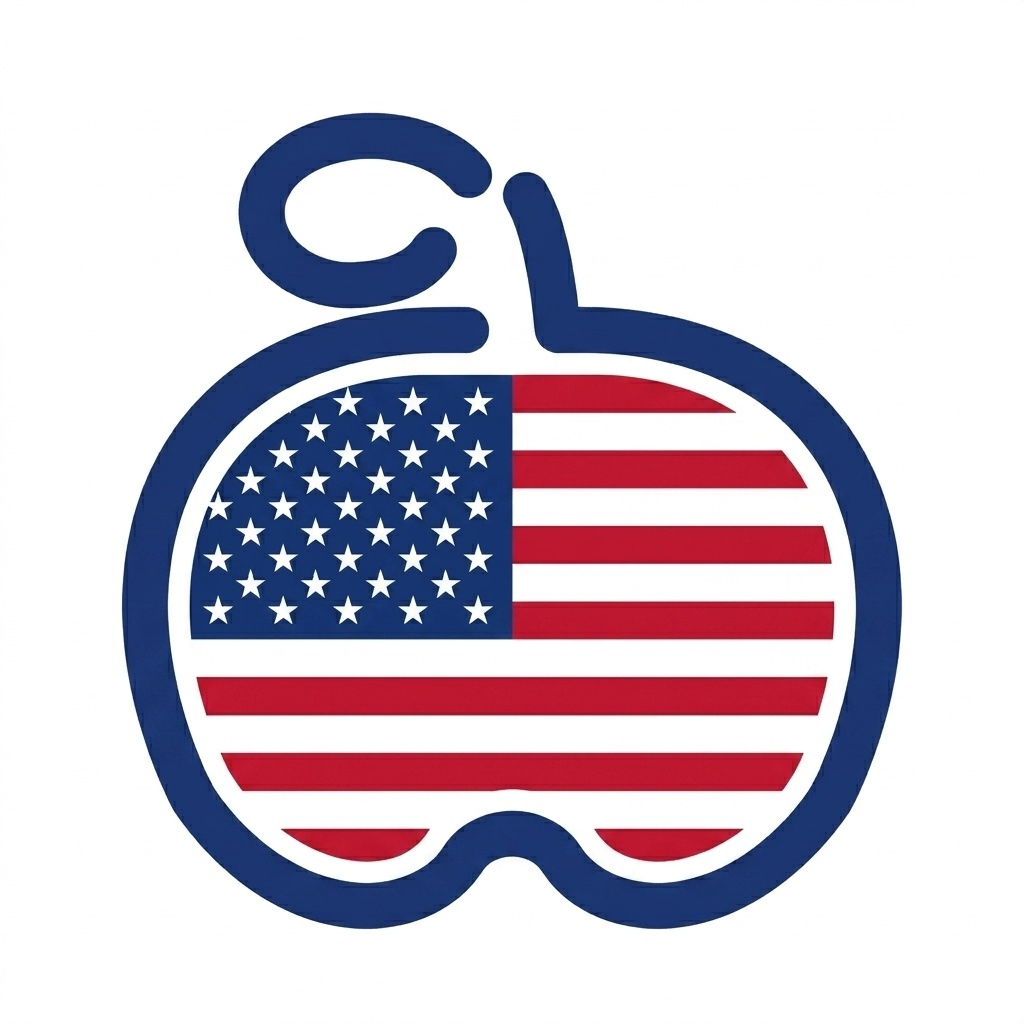
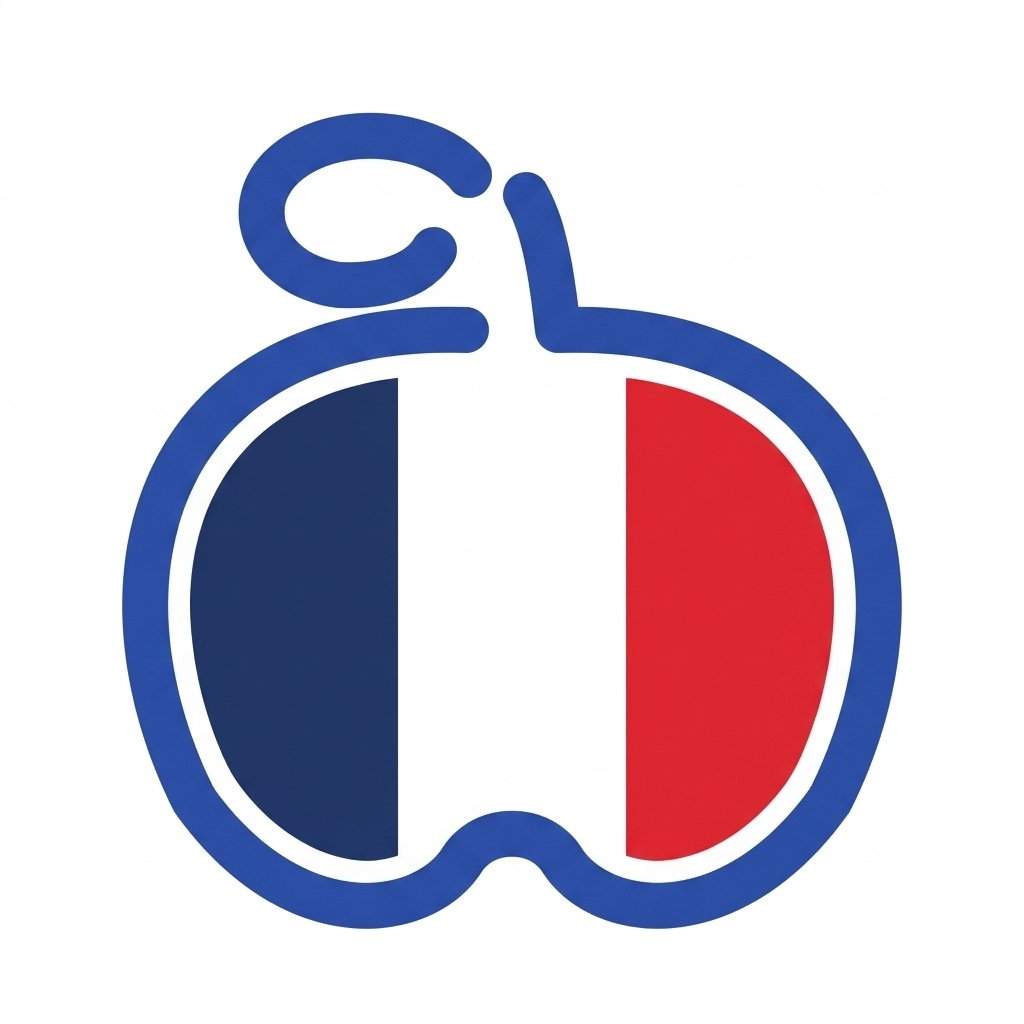
michilingoアイコン退行を修正
コミットc4b832d「add michilingo & taelingo; drop x-files」で、
michilingoのアイコンがchiilingoの星条旗に誤って置き換わっていた
退行を修正。

- michilingo-icon-1024.png / -512.pngを、git show e3ee287:michilingo.html
  から取得できるオリジナルのフランス国旗アイコン（md5
  bf5ec02846a0ffb0f06573d77eead2bf、破損のない完全なバイト列）に復元
  （PNG形式に変換して保存、絵柄は無変更）
- manifest.json（michilingo.manifest.json）はファイル名を変更していない
  ため自動的に新アイコンを参照する。name/short_nameは元々
  "michilingo"のままで、chiilingoとの混同はなかったため変更不要
- sw-michilingo.jsのキャッシュ名をv2→v3に更新し、既存ユーザーにも
  新アイコンが再配信されるようにした

diff --git a/sw-michilingo.js b/sw-michilingo.js
@@ -1,6 +1,7 @@
 // michilingo専用 Service Worker — Stale-While-Revalidate
 // v2: 共通コア分離（lingo-core.js / lingo.css）に伴い、コアもキャッシュ対象に追加
-const CACHE = 'michilingo-v2';
+// v3: アイコン退行修正（星条旗→フランス国旗）に伴い、既存ユーザーへの再配信のためキャッシュ名を更新
+const CACHE = 'michilingo-v3';
 const ASSETS = ['./michilingo.html', './lingo-core.js', './lingo.css'];
 
 // インストール: 本体とコアをプリキャッシュ（失敗しても SW 自体は継続）
